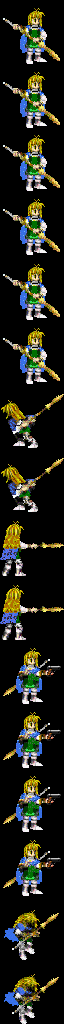
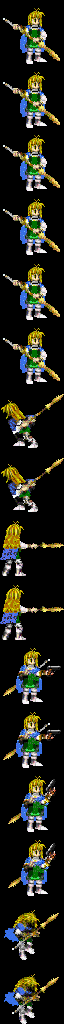
Sarah: gun recoil pose (cast2) as the second cast frame
Claude-Session: https://claude.ai/code/session_01DQWC7xTsxVudAbpPbiVFX3

Changed region(s): [[0.0938, 0.75, 0.875, 0.875]]

diff --git a/tools/dark_story/build_sarah_art.py b/tools/dark_story/build_sarah_art.py
@@ -33,7 +33,7 @@ FRAMES = 16
 # Frame -> supplied pose; the other frame of each pair is a copy.
 MIRROR = {"dash"}  # drawn facing left; she runs right, at the party
 STEPS = {0: "idle", 2: "idle", 4: "idle", 6: "dash", 8: "attack",
-         10: "cast", 12: "cast", 14: "damage"}
+         10: "cast", 12: "cast2", 14: "damage"}
 
 palette = Image.open(SHARED_PALETTE).getpalette()[:224 * 3]
 colors = np.array(palette, dtype=np.float64).reshape(-1, 3)
